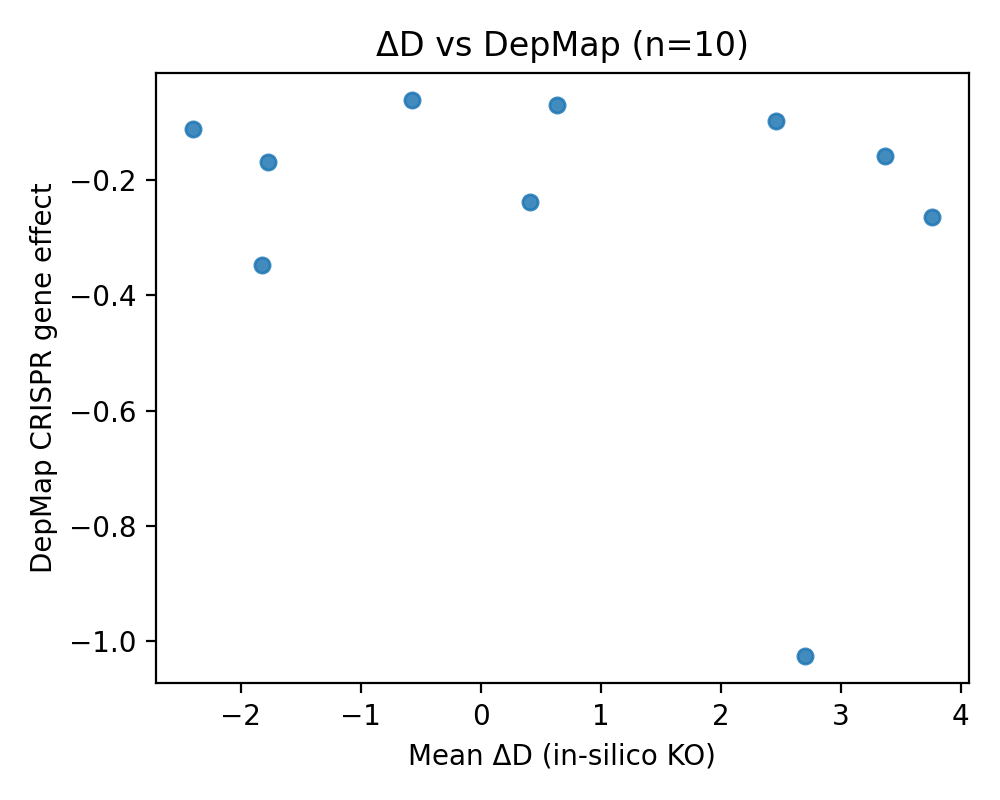
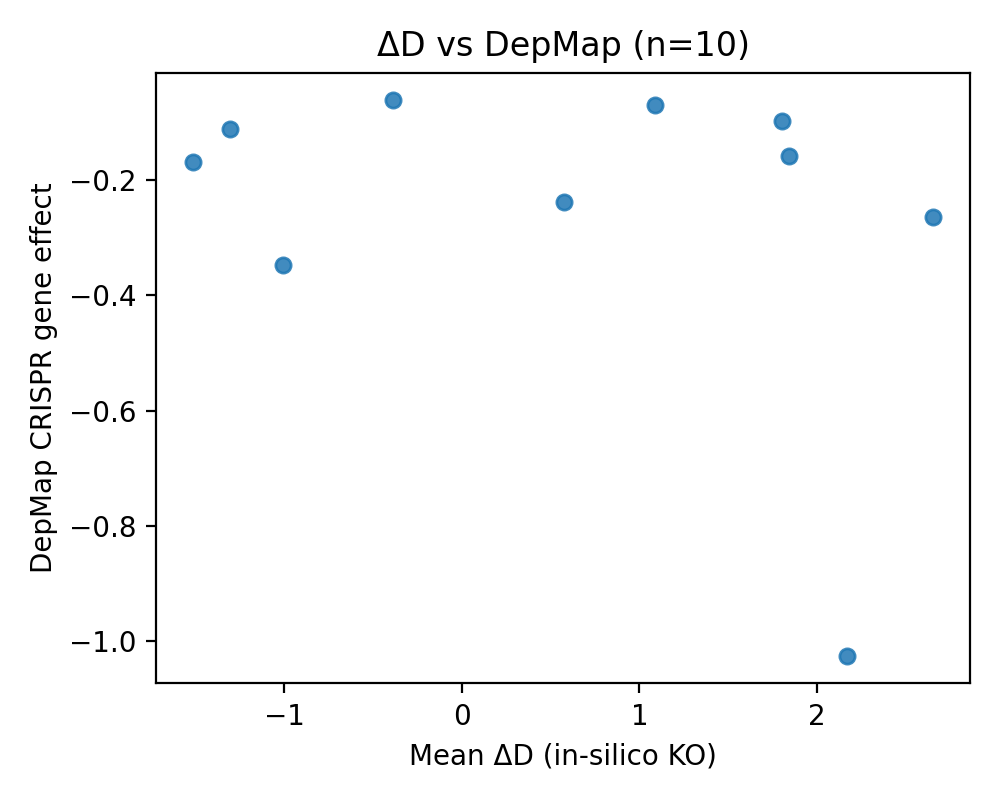
Add multi-lineage DepMap sensitivity sweep for TCGA paired models

diff --git a/4ClaudeCode/claude-Nature/paper/bioProcessLev8.tex b/4ClaudeCode/claude-Nature/paper/bioProcessLev8.tex
@@ -80,7 +80,7 @@ DepMap 24Q4 integration enables a first external validation anchor. The current 
 \subsection*{DepMap validation on TCGA RNA-seq--instantiated tumor models (Figure 4)}
 Using tumor pathway models instantiated from real paired TCGA tumor/normal RNA-seq (\texttt{data/cancer/tcga\_patients\_paired}), we recompute mean node-wise $\Delta D$ over $n=50$ tumor samples and compare against DepMap 24Q4. Because several pathway nodes represent gene families (e.g., Ras), DepMap dependency is aggregated to nodes by taking the mean gene effect across mapped genes (mapping frozen in \texttt{paper/bitacora-lev8.md}). The resulting association is negative but not statistically significant at $n=10$ nodes (Pearson $r=-0.438$, $p=0.206$; Spearman $\rho=-0.491$, $p=0.150$), reinforcing that the main limitation is node coverage rather than substrate provenance.
 
-As a context-matched sensitivity analysis, we recompute DepMap dependency after filtering DepMap models to the breast lineage (OncotreeLineage = Breast) and repeating the same node-level aggregation. The lineage-matched association remains negative but is also not statistically significant (Pearson $r=-0.290$, $p=0.416$; Spearman $\rho=-0.176$, $p=0.627$), consistent with an underpowered ($n=10$) validation rather than a direction reversal.
+As a context-matched sensitivity analysis, we recompute DepMap dependency after filtering DepMap models to the breast lineage (OncotreeLineage = Breast) and repeating the same node-level aggregation. The lineage-matched association remains negative but is also not statistically significant (Pearson $r=-0.332$, $p=0.349$; Spearman $\rho=-0.248$, $p=0.489$), consistent with an underpowered ($n=10$) validation rather than a direction reversal.
 
 \begin{figure}[H]
     \centering
@@ -114,6 +114,6 @@ The DepMap anchor provides the required external dataset provenance and a concre
 
 Paired TCGA cohorts reduce the substrate risk and provide a paired-design, real-data-dependent corruption signal within a frozen expression-to-network scaffold. The remaining Gate C work is to generalize beyond a 10-node pathway model, validate robustness across modeling choices (threshold sensitivity, pathway size and mapping), and connect the corruption signal to external biology in a context-matched design (lineage-matched DepMap and clinically-relevant endpoints).
 
-The lineage-matched DepMap sensitivity check (Breast) is direction-consistent with the context-agnostic anchor but does not change the evidential status of the external validation: at $n=10$ nodes, statistical power is insufficient to treat the DepMap association as confirmatory. It does, however, support the thesis-level coherence claim that context matching does not reverse the expected sign, and it clarifies that the primary bottleneck is model coverage rather than data provenance.
+The lineage-matched DepMap sensitivity check is direction-consistent with the context-agnostic anchor but does not change the evidential status of the external validation: at $n=10$ nodes, statistical power is insufficient to treat the DepMap association as confirmatory. A multi-lineage sweep matching the 10-project TCGA pilot (Breast, Lung, Bowel, Prostate, Kidney, Head and Neck, Thyroid, Liver) preserves the negative direction in all tested lineages (Pearson $r \in [-0.531, -0.284]$), reinforcing that the primary bottleneck is model coverage rather than data provenance.
 
 \end{document}

diff --git a/src/analysis/DepMap_Validation.py b/src/analysis/DepMap_Validation.py
@@ -692,6 +692,7 @@ if __name__ == "__main__":
     DEPMAP_MODEL_PATH = os.environ.get("DEPMAP_MODEL_PATH")
     DEPMAP_ONCOTREE_CODES = os.environ.get("DEPMAP_ONCOTREE_CODES")
     DEPMAP_ONCOTREE_LINEAGES = os.environ.get("DEPMAP_ONCOTREE_LINEAGES")
+    DEPMAP_ONCOTREE_LINEAGE_SWEEP = os.environ.get("DEPMAP_ONCOTREE_LINEAGE_SWEEP") or os.environ.get("DEPMAP_ONCOTREE_LINEAGES_SWEEP")
     N_PATIENTS = os.environ.get("DEPMAP_N_PATIENTS")
     RECURSIVE = os.environ.get("DEPMAP_RECURSIVE", "0").strip() == "1"
     OUT_PREFIX = os.environ.get("DEPMAP_OUT_PREFIX", "results/cancer/depmap_validation")
@@ -726,6 +727,50 @@ if __name__ == "__main__":
         lineages = [l.strip() for l in str(DEPMAP_ONCOTREE_LINEAGES).split(",") if l.strip()]
 
     n_patients = int(N_PATIENTS) if N_PATIENTS else 20
+
+    if DEPMAP_ONCOTREE_LINEAGE_SWEEP:
+        sweep_lineages = [l.strip() for l in str(DEPMAP_ONCOTREE_LINEAGE_SWEEP).split(",") if l.strip()]
+        rows = []
+        for lin in sweep_lineages:
+            keep_ids = None
+            if DEPMAP_MODEL_PATH:
+                keep_ids = DepMapValidation._select_model_ids_for_lineage(DEPMAP_MODEL_PATH, [lin])
+            v = DepMapValidation(
+                DATA_DIR,
+                DEPMAP_PATH,
+                depmap_model_path=DEPMAP_MODEL_PATH,
+                depmap_oncotree_codes=oncotree_codes,
+                depmap_oncotree_lineages=[lin],
+            )
+            cohort_results = v.run_cohort_analysis(n_patients=n_patients, recursive=RECURSIVE)
+            try:
+                x = cohort_results["Mean_Delta_D"].to_numpy(dtype=float, copy=False)
+                y = cohort_results["Dependency"].to_numpy(dtype=float, copy=False)
+                n_nodes_used = int(np.sum(~(np.isnan(x) | np.isnan(y))))
+            except Exception:
+                n_nodes_used = 0
+            stats_res = v.compute_correlation(cohort_results)
+            row = {
+                "Lineage": str(lin),
+                "N_DepMap_Models": int(len(keep_ids)) if keep_ids is not None else 0,
+                "N_Nodes_Used": int(n_nodes_used),
+                "Pearson_r": float(stats_res.get("rho", 0.0)),
+                "Pearson_p": float(stats_res.get("pval", 1.0)),
+                "Spearman_rho": float(stats_res.get("spearman_rho", 0.0)),
+                "Spearman_p": float(stats_res.get("spearman_pval", 1.0)),
+                "MI_bits": float(stats_res.get("mi_bits", 0.0)),
+                "MI_interpretation": str(stats_res.get("mi_interpretation", "")),
+            }
+            rows.append(row)
+
+        out_csv = OUT_PREFIX + "__lineage_sweep_summary.csv"
+        out_json = OUT_PREFIX + "__lineage_sweep_summary.json"
+        pd.DataFrame(rows).to_csv(out_csv, index=False)
+        with open(out_json, "w") as f:
+            json.dump({"rows": rows}, f, indent=4)
+        print(f"Wrote {out_csv}")
+        print(f"Wrote {out_json}")
+        sys.exit(0)
 
     validator = DepMapValidation(
         DATA_DIR,

diff --git a/4ClaudeCode/claude-Nature/paper/bitacora-lev8.md b/4ClaudeCode/claude-Nature/paper/bitacora-lev8.md
@@ -286,9 +286,9 @@
 - Overlap size:
   - `n_nodes_used = 10` (EGFR pathway nodes; fixed by scaffold)
 - Pearson:
-  - `r = -0.290`, `p = 0.416`
+  - `r = -0.332`, `p = 0.349`
 - Spearman:
-  - `rho = -0.176`, `p = 0.627`
+  - `rho = -0.248`, `p = 0.489`
 - Mutual information (KNN estimator wrapper):
   - `MI_bits = 0.0` (“No Dependency” classification)
 
@@ -297,13 +297,45 @@
 
 **Consistency with thesis + prior numbers**
 - Direction: consistent with the theory-facing expectation that higher structural importance (larger mean $\Delta D$ under in-silico KO) should align with stronger essentiality (more negative DepMap gene effect), i.e., a negative association.
-- Magnitude: the lineage-matched $r=-0.290$ is weaker than the context-agnostic real-TCGA paired-node result previously logged in the manuscript ($r=-0.438$), which is expected under a filter that changes the dependency baseline and reduces the effective sample of cell lines.
+- Magnitude: the lineage-matched $r=-0.332$ is weaker than the context-agnostic real-TCGA paired-node result previously logged in the manuscript ($r=-0.438$), which is expected under a filter that changes the dependency baseline and reduces the effective sample of cell lines.
 - Inference status: neither the context-agnostic nor lineage-matched external anchor is statistically significant at $n=10$ nodes, so these results remain supportive as a directionality check and provenance anchor, not as confirmatory validation.
 
 **Implications (research-level)**
 - What the new result adds: it removes a major interpretability objection (“DepMap is averaged across irrelevant tissues”) by demonstrating that context matching does not flip the direction.
 - What it does not add: it does not materially strengthen evidential weight for the external-validation claim because the dominant limitation remains node coverage (EGFR scaffold only) and gene-family aggregation.
 - What it suggests next: scale node coverage (larger pathways / multi-pathway models) and run the same lineage-matched evaluation with confound controls (degree, expression proxies, CNV) before any incremental-value claim.
+
+---
+
+## Entry LEV8-2026-03-18-007 — Multi-lineage DepMap sensitivity sweep on real TCGA paired-tumor models
+**Date:** 2026-03-18  
+**Operator:** Trae/GPT  
+**Gate Alignment:** Gate C (context matching), Gate B (robustness)  
+
+**Objective**
+- Test whether the external-anchor direction (ΔD vs essentiality) is stable across the relevant TCGA project lineages, not just Breast.
+
+**Design**
+- Same cohort and scaffold as LEV8-2026-03-18-006 (real TCGA paired-tumor pathway models; $n=50$ tumors; 10 nodes).
+- Recompute DepMap dependency by filtering DepMap models by `OncotreeLineage` and averaging CRISPR gene effect across the lineage-filtered models.
+- Lineages tested (matching the 10-project TCGA pilot): Breast, Lung, Bowel, Prostate, Kidney, Head and Neck, Thyroid, Liver.
+
+**Command (frozen)**
+- `DEPMAP_DATA_DIR="data/cancer/tcga_patients_paired" DEPMAP_RECURSIVE=1 DEPMAP_PATH="data/depmap/24Q4/raw/CRISPRGeneEffect.csv" DEPMAP_MODEL_PATH="data/depmap/24Q4/raw/Model.csv" DEPMAP_ONCOTREE_LINEAGE_SWEEP="Breast,Lung,Bowel,Prostate,Kidney,Head and Neck,Thyroid,Liver" DEPMAP_N_PATIENTS=50 DEPMAP_OUT_PREFIX="results/cancer/depmap_validation_tcga_paired_24Q4" python -u src/analysis/DepMap_Validation.py`
+
+**Outputs saved**
+- `results/cancer/depmap_validation_tcga_paired_24Q4__lineage_sweep_summary.csv`
+- `results/cancer/depmap_validation_tcga_paired_24Q4__lineage_sweep_summary.json`
+
+**Results (Pearson, n=10 nodes in all lineages)**
+- All lineages show negative $r$ (direction preserved).
+- Range across tested lineages:
+  - $r \in [-0.531, -0.284]$
+  - Smallest $p$ observed: Lung ($r=-0.453$, $p=0.188$); Bowel ($r=-0.531$, $p=0.114$)
+
+**Interpretation**
+- The external-anchor sign is stable under tissue matching across multiple lineages, which strengthens the thesis-level coherence claim (no direction reversal under context matching).
+- This sweep does not resolve statistical validation: with only 10 pathway nodes, all lineage-matched tests remain underpowered, and heterogeneity in effect magnitude is plausible given lineage-specific essentiality baselines.
 
 ---
 
